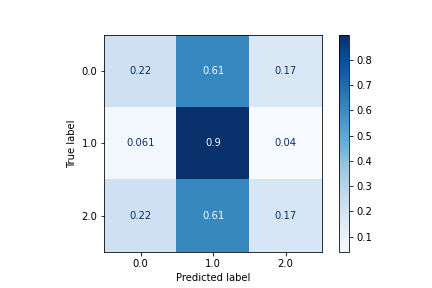
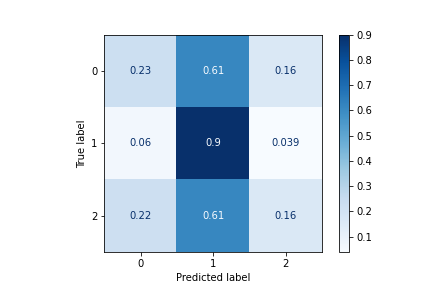
change to parquet; column labels are assigned; exploring the randomness of XGboost

diff --git a/preprocess.py b/preprocess.py
@@ -11,12 +11,14 @@ lag = 5 many minutes are examined for labeling trend.
 Steps: 
 1. standardize each column;
 2. assign labels; 
-3. for each window * 5 matrix, apply wavelet decomposition down to maximum level of the desired mother wavelet; flatten them and obtain the feature vector 
+3. for each window * 4 matrix, apply wavelet decomposition down to maximum level of the desired mother wavelet; flatten them and obtain the feature vector 
 4. store in preprocess folder
 
-TODO: change writing to parquet for faster IO 
-TODO: change functions to cater to pandas apply for better performances
-
+Output column name: 
+for each column (close, high, low, and etc), we preserve the wavelet type (approx/detail) and level 
+for instance: 
+    c_A_5_15 means the approx coefficient at level 5 index 15 for close price
+    v_D_3_33 means the detail coefficient at level 3 index 33 for trading volume
 """
 
 # load packages
@@ -24,13 +26,13 @@ import os
 import json
 import numpy as np
 import pandas as pd
-from multiprocessing import Process
 from sklearn.preprocessing import StandardScaler
 import pywt
 
 # constants 
-file_path = 'data/510050_1m.csv'  # path to read from
-save_path = 'preprocess'          # path to save to
+file_path = 'data/510050_1m.csv'               # path to read from
+save_path = 'preprocess/preprocess.parquet'    # path to save to
+concat = np.concatenate
 
 # load parameters
 with open('parameters/parameters.json', 'r') as f:
@@ -39,6 +41,7 @@ with open('parameters/parameters.json', 'r') as f:
 
 # hyper-parameters
 mother_wavelet = 'db4'           # the wavelet we choose to decompose
+mother_wavelet = pywt.Wavelet(mother_wavelet)
 use_cols = ['c', 'h', 'l', 'v']  # discard open
 
 
@@ -66,9 +69,12 @@ def label_data(data, window, lag, th):
     """
     print('Giving Labels ...')
     standardized_data = StandardScaler().fit_transform(data[use_cols])
-    X_raw, Y = [], []
+    X, Y = [], []
     for t in range(standardized_data.shape[0] - window - lag):
-        X_raw.append(standardized_data[t:t + window])
+        # obtain x 
+        X_raw_t = standardized_data[t:t + window]
+        X.append(dwt(X_raw_t))
+
         # use movement of close prices to assign labels
         curr_close = standardized_data[t + window, 0]
         price_movement = (
@@ -82,7 +88,7 @@ def label_data(data, window, lag, th):
         else:
             Y.append(1)
     print('Finish Labeling')
-    return np.array(X_raw), np.array(Y)
+    return np.array(X), np.array(Y)
 
 
 def dwt(x):
@@ -92,63 +98,77 @@ def dwt(x):
     :param x: each row in X_raw
     :return the flattened array
     """
-    wavelet_coefs = []
+    wavelet_coeff = []
     for i in range(x.shape[1]):
-        wavelet_coefs.append(np.concatenate(pywt.wavedec(x[:, i], mother_wavelet)))
-    return np.concatenate(wavelet_coefs)
+        wavelet_coeff.append(concat(pywt.wavedec(x[:, i], mother_wavelet)))
+    return concat(wavelet_coeff)
 
 
-def transform(X_raw):
+def obtain_col_names(data_len=window, mother_wavelet=mother_wavelet):
     """
-    convert the entire X into a wavelet coefficient dataset
+    fetch the column name for flatten wavelet features 
 
-    :param X_raw: the standardized X from the original dataframe
-    :return the wavelet features flattened in each row
+    :param data_len: the length of the data at each period, usually set to window 
+    :param mother_wavelet: the wavelet we would like to use 
     """
-    # print('Obtaining New Features from Wavelet Coefficients ...')
-    out = np.array([dwt(x) for x in X_raw])
-    # print('Finish Feature Engineering')
-    return out
+    # coin a sequence to obtain the structure
+    hypothetical_data = np.random.rand(data_len)
+    max_level = pywt.dwt_max_level(data_len, mother_wavelet)
+    hypothetical_wavelet_coeff = pywt.wavedec(hypothetical_data, mother_wavelet)
+    length_each_level = [x.shape[0] for x in hypothetical_wavelet_coeff]
+    # approx 
+    approx_length = length_each_level[0]
+    approx_names = [f'A_{max_level}_{i}' for i in range(approx_length)]
+    # detail 
+    detail_names = []
+    for n in range(max_level, 0, -1):
+        curr_idx = max_level + 1 - n
+        curr_detail_length = length_each_level[curr_idx]
+        curr_detail_names = [f'D_{n}_{i}' for i in range(curr_detail_length)]
+        detail_names = detail_names + curr_detail_names
+    return approx_names + detail_names
+    
 
-
-def save_preprocess(X, Y, save_path='preprocess', n_rows=50000):
+def make_wavelet_df_info(X, Y):
     """
-    save all preprocessed data into a csv for training and testing purposes
+    construct a dataframe with column names indicating the wavelet type (approx/detail) and level,
+    and the label. to be saved later 
 
     :param X, Y: the processed X and y
-    :param save_path: the path/folder to be saved to
-    :param n_rows: the number of rows to write at each time
     """
-    # convert to 16 for less storage
-    new_feature = pd.DataFrame(X).assign(label=Y).astype('float16').astype({'label': 'int8'})
-    print('Saving New Features to files ...')
+    # obtain column names 
+    wavelet_names_each_col = obtain_col_names()
+    wavelet_names = [] 
+    for col in use_cols:
+        wavelet_names = wavelet_names + ['{}_{}'.format(col, x) for x in wavelet_names_each_col]
+    
+    # new dataframe, convert to 32 for less storage (parquet does not support 16)
+    new_feature = pd.DataFrame(
+        X, 
+        columns=wavelet_names
+    ).assign(
+        label=Y
+    ).astype('float32').astype({'label': 'int8'})  
+    return new_feature
 
-    n_files = new_feature.shape[0] // n_rows
-    # split into a couple of files
-    p_list = []
-    for i in range(n_files + 1):
-        p_list.append(
-            Process(target=write_to_file_helper,
-                    args=(
-                        new_feature.iloc[(i * n_rows):((i + 1) * n_rows)],
-                        os.path.join(save_path, f'510050_1m_wavelets_{i}.csv')
-                    )
-                    )
-        )
-    for p in p_list:
-        p.start()
-    for p in p_list:
-        p.join()
+
+
+def write_to_parquet(df):
+    """
+    write to parquet from the constructed df 
+    """
+    print('Saving New Features to files ...')
+    df.to_parquet(save_path)
     print('New Features have been saved to {}'.format(save_path))
 
 
-def write_to_file_helper(df, name):
-    """ write file helper for multiprocessing """
-    df.to_csv(name, index=False, header=False)
-
-
+# run the following to obtain the preprocessed data 
 if __name__ == '__main__':
+    # load data 
     tbl = load_data()
-    X_raw, Y = label_data(tbl, window, lag, th)
-    X = transform(X_raw)
-    save_preprocess(X, Y)
+    # give label and obtain wavelet features 
+    X, Y = label_data(tbl, window, lag, th)
+    # pack into a dataframe 
+    df = make_wavelet_df_info(X, Y)
+    # save to folder
+    write_to_parquet(df)

diff --git a/naive_trading.py b/naive_trading.py
@@ -41,7 +41,7 @@ def label_data_and_transform(data, window=window, lag=lag, th=th, split_at=train
     num_data = standardized_data.shape[0]
     X_train, X_test, Y_train = [], [], []
     for t in range(window, split_at):
-        X_train.append(standardized_data[t - window:t])
+        X_train.append(dwt(standardized_data[t - window:t]))
         # assign labels by close price movements 
         curr_close = standardized_data[t, 0]
         price_movement = (
@@ -55,18 +55,30 @@ def label_data_and_transform(data, window=window, lag=lag, th=th, split_at=train
             Y_train.append(1)
     
     # obtain testing features 
+    # add Y_test to plot confusion matrix 
+    Y_test = []
     for t in range(split_at, num_data):
-        X_test.append(standardized_data[t - window:t])
-
-    # obtain wavelet coefficients
-    X_train = transform(X_train)
-    X_test = transform(X_test)
+        X_test.append(dwt(standardized_data[t - window:t]))
+        
+        # adding Y_test for making confusion matrix plot 
+        # note that the last lag number of labels are incorrect 
+        curr_close = standardized_data[t, 0]
+        price_movement = (
+            standardized_data[t: t + lag, 0].mean() - curr_close
+        ) / curr_close
+        if price_movement > th:
+            Y_test.append(2)
+        elif price_movement < -th:
+            Y_test.append(0)
+        else:
+            Y_test.append(1)
 
     # assign indices (TO BE REMOVED LATER ON)
     test_idx = test_dataset.index 
     Y_train = np.array(Y_train, dtype=int)
+    Y_test = np.array(Y_test, dtype=int) 
     X_test = pd.DataFrame(X_test, index=test_idx)   
-    return X_train, Y_train, X_test
+    return X_train, Y_train, X_test, Y_test
 
 
 def train_assign_direction_by_period(X_train, Y_train, X_test):
@@ -87,8 +99,9 @@ def train_assign_direction_by_period(X_train, Y_train, X_test):
     # train model 
     xgb_clf = XGBClassifier(
         objective='multi:softmax',
-        use_label_encoder=False
-        ).fit(X_train, Y_train, eval_metric='merror')
+        use_label_encoder=False,
+        random_state=0
+    ).fit(X_train, Y_train, eval_metric='merror')
 
     # prediction
     Y_test_prediction = xgb_clf.predict(X_test)
@@ -101,7 +114,7 @@ def pipeline_each_period(data_chunk):
     """
     # standardize and transform
     # print('Start Training')
-    X_train, Y_train, X_test = label_data_and_transform(data_chunk)
+    X_train, Y_train, X_test, _ = label_data_and_transform(data_chunk)
     # give directions
     direction_curr_period = train_assign_direction_by_period(
         X_train, Y_train, X_test)
@@ -125,23 +138,20 @@ def train_assign_direction(raw_data,
     num_chunk = (data_to_use.shape[0] - train_period) // test_period
 
     # obtain directions 
-    # data_chunks = []
-    direction = pd.Series([], dtype=int)
+    data_chunks = []
     for i in range(num_chunk + 1):
         # obtain train and test dataset 
         train_start_idx = i * test_period
         train_end_idx = train_start_idx + train_period  # also the test start idx 
         test_end_idx = train_end_idx + test_period
         data_chunk = data_to_use.loc[train_start_idx:test_end_idx - 1]
-        # data_chunks.append(data_chunk)
-        print(f'Training period {i}')
-        direction = pd.concat([direction, pipeline_each_period(data_chunk)])
+        data_chunks.append(data_chunk)
     
-    # multiprocessing to process each chunk (TODO: FIX mp)
-    # with mp.Pool() as pool:
-    #     directions = pool.map(pipeline_each_period, data_chunks)
+    # multiprocessing to process each chunk 
+    with mp.Pool() as pool:
+        directions = pool.map(pipeline_each_period, data_chunks)
 
-    # direction = pd.concat(directions)
+    direction = pd.concat(directions)
     return direction
 
 

diff --git a/train_test.py b/train_test.py
@@ -6,8 +6,6 @@ Date Created: 2021/04/12
 This file compares performances of different ML models on 
 predicting the stock trend using wavelet coefficients 
 
-TODO: change to reading parquet 
-
 """
 
 # load preprocessing
@@ -31,7 +29,6 @@ from xgboost import XGBClassifier
 import matplotlib.pyplot as plt 
 
 # constants 
-curr_folder = os.path.dirname(os.path.abspath(__file__))
 report_path = 'report'
 acc_report_file_path = 'report/accuracy.txt'
 
@@ -39,19 +36,9 @@ acc_report_file_path = 'report/accuracy.txt'
 def load_preprocess_data():
     """ read in preprocess data, obtain X and Y"""
     print('Loading Data ...')
-    tbl = pd.DataFrame()
-    files_to_read = os.listdir('preprocess')
-    files_to_read.sort()
-    files_to_read = [os.path.join('preprocess', f) for f in files_to_read]
-
-    # mp pool to read
-    tbl_list = []
-    read_df = partial(pd.read_csv, header=None)
-    with mp.Pool() as pool:
-        tbl_list = pool.map(read_df, files_to_read)
-    tbl = pd.concat(tbl_list).to_numpy()
-    Y = tbl[:, -1]
-    X = tbl[:, :-1]
+    df = pd.read_parquet('preprocess/preprocess.parquet')
+    X = df.drop(columns=['label'])
+    Y = df['label']
     print('Finish Loading')
     return X, Y
 
@@ -125,8 +112,10 @@ def train_test_xgb(X_train, X_test, Y_train, Y_test):
     xgb_clf = XGBClassifier(
         objective='multi:softmax', 
         use_label_encoder=False
-        ).fit(X_train, Y_train, 
-              eval_metric='merror')
+    ).fit(
+        X_train, Y_train, 
+        eval_metric='merror'
+    )
     Y_train_predict = xgb_clf.predict(X_train) 
     Y_test_predict = xgb_clf.predict(X_test) 
     xgb_train_acc = (Y_train_predict == Y_train).mean()

diff --git a/README.md b/README.md
@@ -3,7 +3,8 @@
 This is an attempt to use wavelet coefficients obtained from discrete wavelet transform (DWT) and wavelet packets (WPT) as engineered features on stock trend prediction (STP). This project is inspired by [Multi-scale Two-way Deep Neural Network](https://www.ijcai.org/Proceedings/2020/0628.pdf).
 
 (DEBUGGING! THE FOLLOWING IS NOT REPRODUCIBLE!)
-Example: For the next 120 days, use XGBoost classifier on the previous 720 days 
+
+Example: For the next 120 days, use XGBoost classifier on the previous 720 days
 <p align="center">
   <img src="naive_trading_720_120.png" />
 </p>
